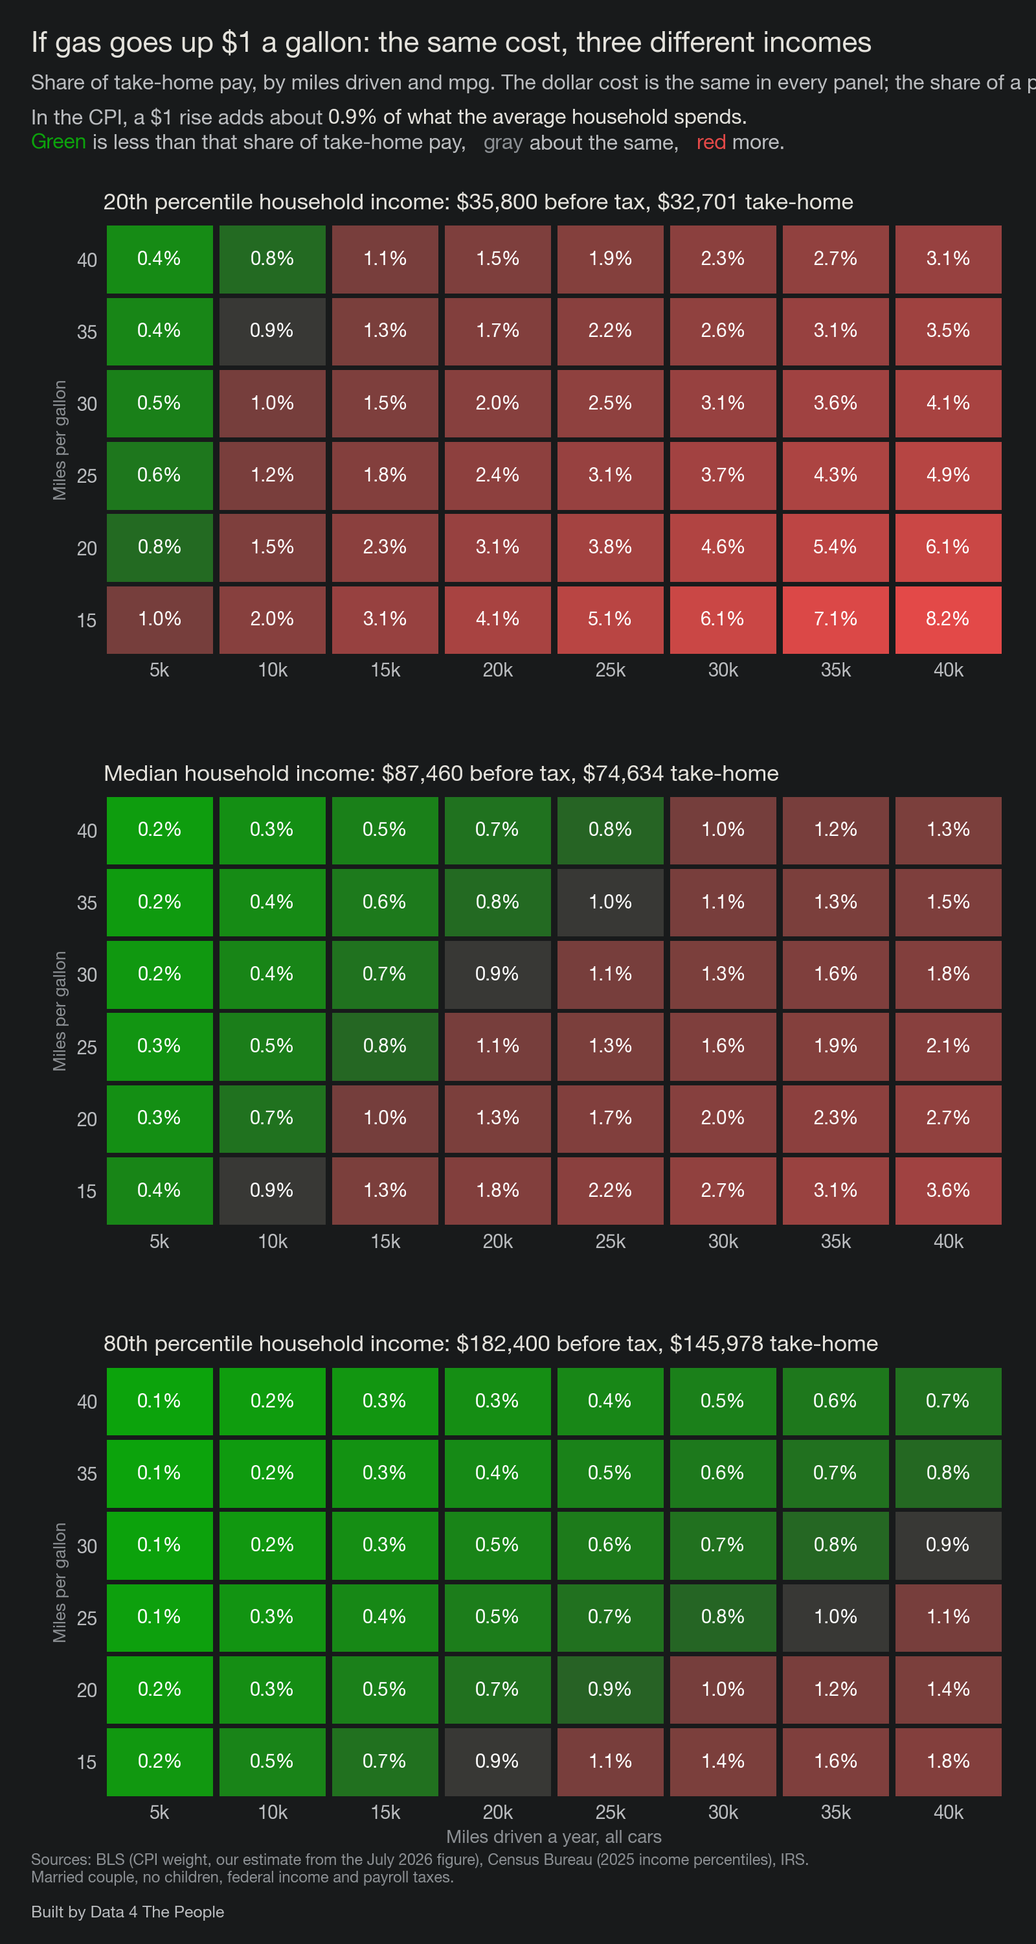
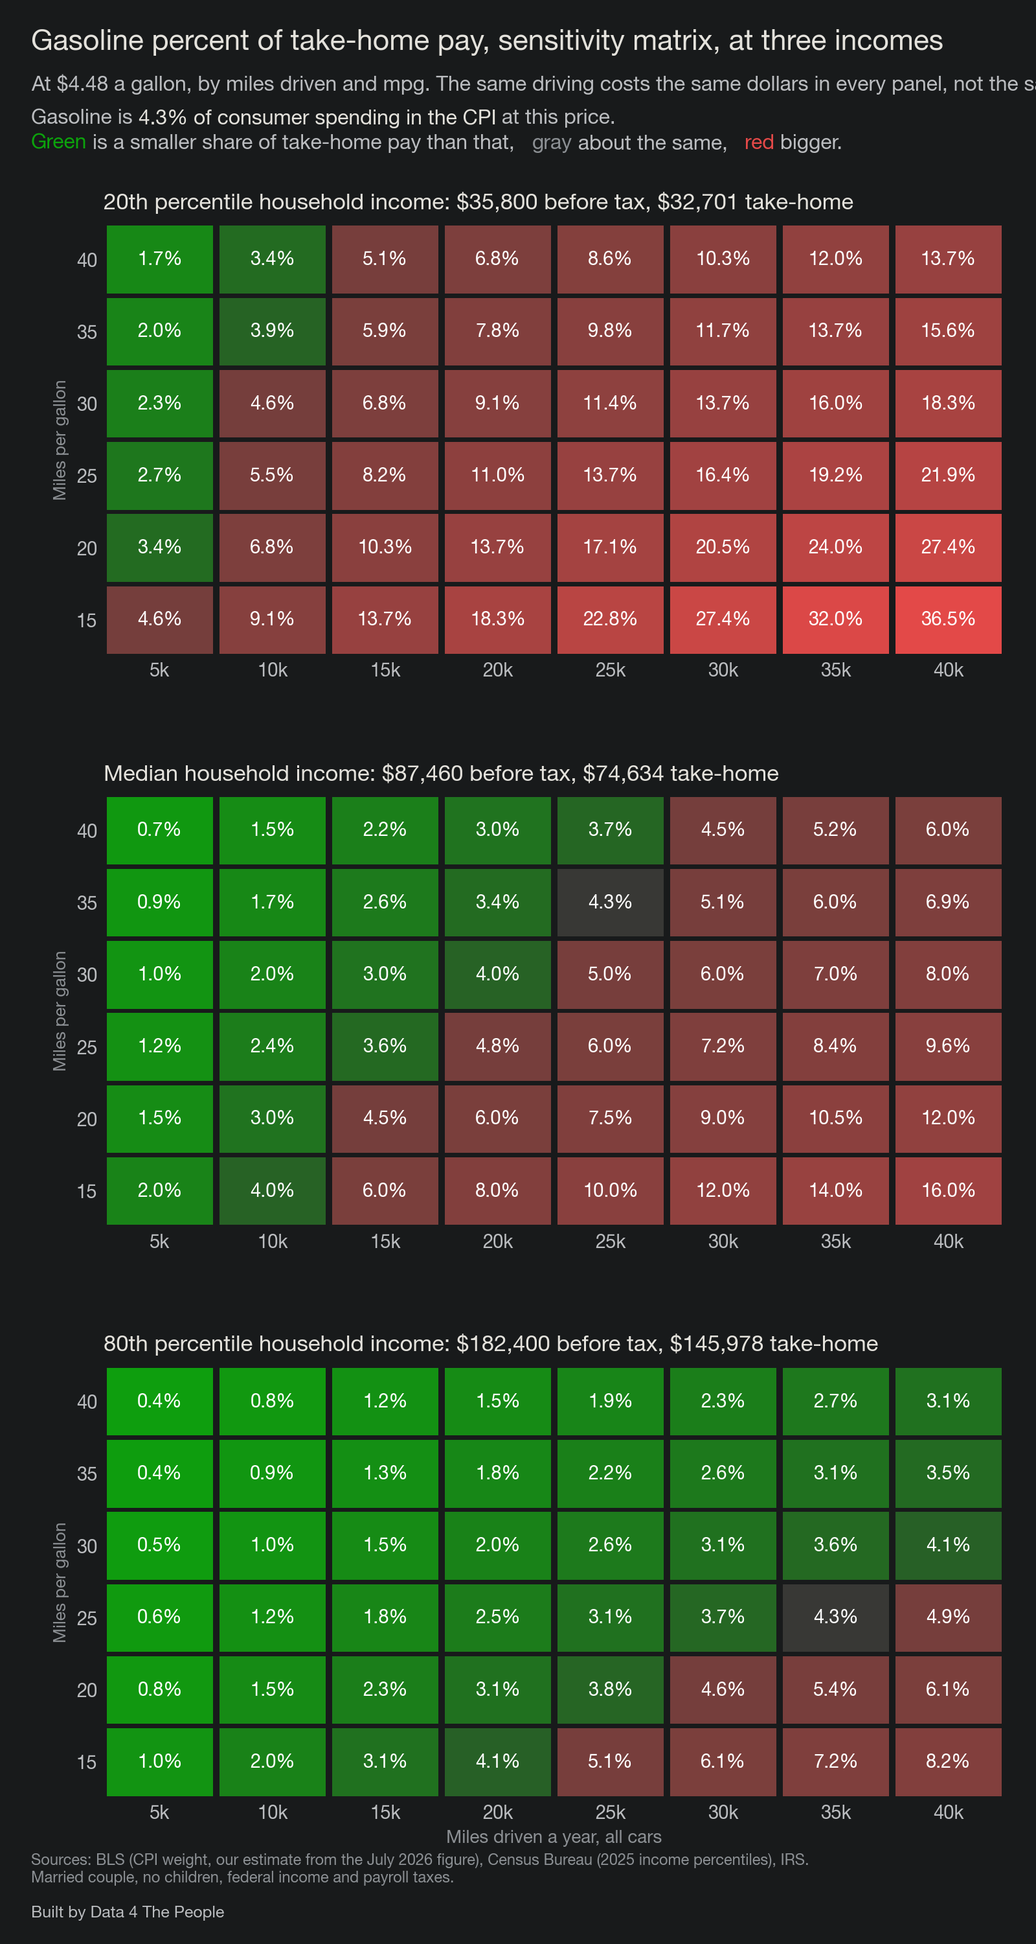
gasoline-cost: sensitivity matrix shows gasoline percent of take-home pay at the selected price

diff --git a/dist/embed.html b/dist/embed.html
@@ -401,12 +401,11 @@ function drawDetail(){
 }
 
 /* ---------- matrix: what each $1 a gallon adds, by miles and mpg, at the selected household's income ---------- */
-var MX_MILES = [5000, 10000, 15000, 20000, 25000, 30000, 35000, 40000], MX_MPG = [40, 35, 30, 25, 20, 15], MX_BAND = 0.05;
+var MX_MILES = [5000, 10000, 15000, 20000, 25000, 30000, 35000, 40000], MX_MPG = [40, 35, 30, 25, 20, 15], MX_BAND = 0.15;
 function hexRgb(h){ h = h.trim(); return [parseInt(h.substr(1, 2), 16), parseInt(h.substr(3, 2), 16), parseInt(h.substr(5, 2), 16)]; }
 function mixRgb(a, b, t){ return a.map(function(x, i){ return Math.round(x + (b[i] - x) * t); }); }
 function lumRgb(c){ var f = function(v){ v /= 255; return v <= 0.03928 ? v / 12.92 : Math.pow((v + 0.055) / 1.055, 2.4); };
   return 0.2126 * f(c[0]) + 0.7152 * f(c[1]) + 0.0722 * f(c[2]); }
-function cpiSlope(){ return (cpiAt(S.price + 0.01) - cpiAt(S.price - 0.01)) / 0.02; }
 function selected(){
   if (S.sel === "you" && S.you && S.edited) return {name: "Your household", at: S.you.t.afterTax, miles: S.you.miles, mpg: S.you.mpg};
   var p = D.profiles.filter(function(x){ return x.id === S.sel; })[0] || D.profiles[0];
@@ -414,21 +413,21 @@ function selected(){
 }
 function nearestIdx(arr, v){ var b = 0; arr.forEach(function(x, i){ if (Math.abs(x - v) < Math.abs(arr[b] - v)) b = i; }); return b; }
 function drawMatrix(){
-  var box = $("matrix"), h = selected(), cs = cpiSlope(), cst = getComputedStyle(root);
+  var box = $("matrix"), h = selected(), cs = cpiAt(S.price), cst = getComputedStyle(root);
   var NEU = hexRgb(cst.getPropertyValue("--mNeu")), GOOD = hexRgb(cst.getPropertyValue("--mGood")), BAD = hexRgb(cst.getPropertyValue("--mBad"));
-  var top = 100 * 40000 / 15 / 35000;      /* one fixed scale, so colors compare across incomes */
+  var top = 100 * (40000 / 15) * S.price / 35000;   /* one fixed scale, so colors compare across incomes */
   var mi = nearestIdx(MX_MILES, h.miles), gi = nearestIdx(MX_MPG, h.mpg);
   var whose = h.name.toLowerCase() === "your household" ? "your" : "the " + h.name.toLowerCase() + "'s";
-  var html = "<h2>If gas goes up $1 a gallon</h2>" +
-    "<p class='intro'>What a $1 rise costs, as a share of " + esc(whose) + " take-home pay of " + money(h.at) +
-    " a year, for any mix of miles and mpg. In the CPI, a $1 rise is about <b>" + cs.toFixed(1) + "% of what the average household spends</b>.</p>" +
-    "<div class='legend'><span><b style='color:var(--mGood)'>Green</b> under " + cs.toFixed(1) + "%</span><span><b style='color:var(--muted)'>Gray</b> about " + cs.toFixed(1) + "%</span><span><b style='color:var(--mBad)'>Red</b> over " + cs.toFixed(1) + "%</span><span><b>Outlined</b>: closest to this household</span></div>" +
+  var html = "<h2>Gasoline percent of take-home pay, sensitivity matrix</h2>" +
+    "<p class='intro'>At $" + S.price.toFixed(2) + " a gallon, for any mix of miles and mpg, against " + esc(whose) + " take-home pay of " + money(h.at) +
+    " a year. Gasoline is <b>" + pct(cs) + "</b> of consumer spending in the CPI at this price.</p>" +
+    "<div class='legend'><span><b style='color:var(--mGood)'>Green</b> under " + pct(cs) + "</span><span><b style='color:var(--muted)'>Gray</b> about " + pct(cs) + "</span><span><b style='color:var(--mBad)'>Red</b> over " + pct(cs) + "</span><span><b>Outlined</b>: closest to this household</span></div>" +
     "<div class='mx' role='table' aria-label='Points of after-tax income added by each $1 a gallon'><div class='h'>mpg</div>";
   MX_MILES.forEach(function(m){ html += "<div class='h'>" + (m / 1000) + "k</div>"; });
   MX_MPG.forEach(function(g, i){
     html += "<div class='h r'>" + g + "</div>";
     MX_MILES.forEach(function(m, j){
-      var v = 100 * m / g / h.at, c;
+      var v = 100 * (m / g) * S.price / h.at, c;
       if (Math.abs(v - cs) <= MX_BAND) c = NEU;
       else if (v < cs) c = mixRgb(NEU, GOOD, 0.35 + 0.65 * Math.min(1, (cs - v) / (cs - 0.1)));
       else c = mixRgb(NEU, BAD, 0.35 + 0.65 * Math.min(1, (v - cs) / (top - cs)));
@@ -436,8 +435,8 @@ function drawMatrix(){
       var word = Math.abs(v - cs) <= MX_BAND ? "about the same as" : v < cs ? "less than" : "more than";
       var gal = m / g;
       html += "<div class='c" + (i === gi && j === mi ? " me" : "") + "' style='background:rgb(" + c.join(",") + ");color:" + ink + "' data-tip='" +
-        esc(m.toLocaleString("en-US") + " miles a year at " + g + " mpg is " + Math.round(gal).toLocaleString("en-US") + " gallons. A $1 rise costs " +
-            money(gal) + " more a year, which is " + v.toFixed(1) + "% of take-home pay, " + word + " the " + cs.toFixed(1) + "% the CPI puts on the average household.") +
+        esc(m.toLocaleString("en-US") + " miles a year at " + g + " mpg is " + Math.round(gal).toLocaleString("en-US") + " gallons, or " +
+            money(gal * S.price) + " a year at $" + S.price.toFixed(2) + ". That is " + v.toFixed(1) + "% of take-home pay, " + word + " gasoline's " + pct(cs) + " share of spending in the CPI.") +
         "'>" + v.toFixed(1) + "%</div>";
     });
   });

diff --git a/dist/index.html b/dist/index.html
@@ -401,12 +401,11 @@ function drawDetail(){
 }
 
 /* ---------- matrix: what each $1 a gallon adds, by miles and mpg, at the selected household's income ---------- */
-var MX_MILES = [5000, 10000, 15000, 20000, 25000, 30000, 35000, 40000], MX_MPG = [40, 35, 30, 25, 20, 15], MX_BAND = 0.05;
+var MX_MILES = [5000, 10000, 15000, 20000, 25000, 30000, 35000, 40000], MX_MPG = [40, 35, 30, 25, 20, 15], MX_BAND = 0.15;
 function hexRgb(h){ h = h.trim(); return [parseInt(h.substr(1, 2), 16), parseInt(h.substr(3, 2), 16), parseInt(h.substr(5, 2), 16)]; }
 function mixRgb(a, b, t){ return a.map(function(x, i){ return Math.round(x + (b[i] - x) * t); }); }
 function lumRgb(c){ var f = function(v){ v /= 255; return v <= 0.03928 ? v / 12.92 : Math.pow((v + 0.055) / 1.055, 2.4); };
   return 0.2126 * f(c[0]) + 0.7152 * f(c[1]) + 0.0722 * f(c[2]); }
-function cpiSlope(){ return (cpiAt(S.price + 0.01) - cpiAt(S.price - 0.01)) / 0.02; }
 function selected(){
   if (S.sel === "you" && S.you && S.edited) return {name: "Your household", at: S.you.t.afterTax, miles: S.you.miles, mpg: S.you.mpg};
   var p = D.profiles.filter(function(x){ return x.id === S.sel; })[0] || D.profiles[0];
@@ -414,21 +413,21 @@ function selected(){
 }
 function nearestIdx(arr, v){ var b = 0; arr.forEach(function(x, i){ if (Math.abs(x - v) < Math.abs(arr[b] - v)) b = i; }); return b; }
 function drawMatrix(){
-  var box = $("matrix"), h = selected(), cs = cpiSlope(), cst = getComputedStyle(root);
+  var box = $("matrix"), h = selected(), cs = cpiAt(S.price), cst = getComputedStyle(root);
   var NEU = hexRgb(cst.getPropertyValue("--mNeu")), GOOD = hexRgb(cst.getPropertyValue("--mGood")), BAD = hexRgb(cst.getPropertyValue("--mBad"));
-  var top = 100 * 40000 / 15 / 35000;      /* one fixed scale, so colors compare across incomes */
+  var top = 100 * (40000 / 15) * S.price / 35000;   /* one fixed scale, so colors compare across incomes */
   var mi = nearestIdx(MX_MILES, h.miles), gi = nearestIdx(MX_MPG, h.mpg);
   var whose = h.name.toLowerCase() === "your household" ? "your" : "the " + h.name.toLowerCase() + "'s";
-  var html = "<h2>If gas goes up $1 a gallon</h2>" +
-    "<p class='intro'>What a $1 rise costs, as a share of " + esc(whose) + " take-home pay of " + money(h.at) +
-    " a year, for any mix of miles and mpg. In the CPI, a $1 rise is about <b>" + cs.toFixed(1) + "% of what the average household spends</b>.</p>" +
-    "<div class='legend'><span><b style='color:var(--mGood)'>Green</b> under " + cs.toFixed(1) + "%</span><span><b style='color:var(--muted)'>Gray</b> about " + cs.toFixed(1) + "%</span><span><b style='color:var(--mBad)'>Red</b> over " + cs.toFixed(1) + "%</span><span><b>Outlined</b>: closest to this household</span></div>" +
+  var html = "<h2>Gasoline percent of take-home pay, sensitivity matrix</h2>" +
+    "<p class='intro'>At $" + S.price.toFixed(2) + " a gallon, for any mix of miles and mpg, against " + esc(whose) + " take-home pay of " + money(h.at) +
+    " a year. Gasoline is <b>" + pct(cs) + "</b> of consumer spending in the CPI at this price.</p>" +
+    "<div class='legend'><span><b style='color:var(--mGood)'>Green</b> under " + pct(cs) + "</span><span><b style='color:var(--muted)'>Gray</b> about " + pct(cs) + "</span><span><b style='color:var(--mBad)'>Red</b> over " + pct(cs) + "</span><span><b>Outlined</b>: closest to this household</span></div>" +
     "<div class='mx' role='table' aria-label='Points of after-tax income added by each $1 a gallon'><div class='h'>mpg</div>";
   MX_MILES.forEach(function(m){ html += "<div class='h'>" + (m / 1000) + "k</div>"; });
   MX_MPG.forEach(function(g, i){
     html += "<div class='h r'>" + g + "</div>";
     MX_MILES.forEach(function(m, j){
-      var v = 100 * m / g / h.at, c;
+      var v = 100 * (m / g) * S.price / h.at, c;
       if (Math.abs(v - cs) <= MX_BAND) c = NEU;
       else if (v < cs) c = mixRgb(NEU, GOOD, 0.35 + 0.65 * Math.min(1, (cs - v) / (cs - 0.1)));
       else c = mixRgb(NEU, BAD, 0.35 + 0.65 * Math.min(1, (v - cs) / (top - cs)));
@@ -436,8 +435,8 @@ function drawMatrix(){
       var word = Math.abs(v - cs) <= MX_BAND ? "about the same as" : v < cs ? "less than" : "more than";
       var gal = m / g;
       html += "<div class='c" + (i === gi && j === mi ? " me" : "") + "' style='background:rgb(" + c.join(",") + ");color:" + ink + "' data-tip='" +
-        esc(m.toLocaleString("en-US") + " miles a year at " + g + " mpg is " + Math.round(gal).toLocaleString("en-US") + " gallons. A $1 rise costs " +
-            money(gal) + " more a year, which is " + v.toFixed(1) + "% of take-home pay, " + word + " the " + cs.toFixed(1) + "% the CPI puts on the average household.") +
+        esc(m.toLocaleString("en-US") + " miles a year at " + g + " mpg is " + Math.round(gal).toLocaleString("en-US") + " gallons, or " +
+            money(gal * S.price) + " a year at $" + S.price.toFixed(2) + ". That is " + v.toFixed(1) + "% of take-home pay, " + word + " gasoline's " + pct(cs) + " share of spending in the CPI.") +
         "'>" + v.toFixed(1) + "%</div>";
     });
   });

diff --git a/src/template.html b/src/template.html
@@ -401,12 +401,11 @@ function drawDetail(){
 }
 
 /* ---------- matrix: what each $1 a gallon adds, by miles and mpg, at the selected household's income ---------- */
-var MX_MILES = [5000, 10000, 15000, 20000, 25000, 30000, 35000, 40000], MX_MPG = [40, 35, 30, 25, 20, 15], MX_BAND = 0.05;
+var MX_MILES = [5000, 10000, 15000, 20000, 25000, 30000, 35000, 40000], MX_MPG = [40, 35, 30, 25, 20, 15], MX_BAND = 0.15;
 function hexRgb(h){ h = h.trim(); return [parseInt(h.substr(1, 2), 16), parseInt(h.substr(3, 2), 16), parseInt(h.substr(5, 2), 16)]; }
 function mixRgb(a, b, t){ return a.map(function(x, i){ return Math.round(x + (b[i] - x) * t); }); }
 function lumRgb(c){ var f = function(v){ v /= 255; return v <= 0.03928 ? v / 12.92 : Math.pow((v + 0.055) / 1.055, 2.4); };
   return 0.2126 * f(c[0]) + 0.7152 * f(c[1]) + 0.0722 * f(c[2]); }
-function cpiSlope(){ return (cpiAt(S.price + 0.01) - cpiAt(S.price - 0.01)) / 0.02; }
 function selected(){
   if (S.sel === "you" && S.you && S.edited) return {name: "Your household", at: S.you.t.afterTax, miles: S.you.miles, mpg: S.you.mpg};
   var p = D.profiles.filter(function(x){ return x.id === S.sel; })[0] || D.profiles[0];
@@ -414,21 +413,21 @@ function selected(){
 }
 function nearestIdx(arr, v){ var b = 0; arr.forEach(function(x, i){ if (Math.abs(x - v) < Math.abs(arr[b] - v)) b = i; }); return b; }
 function drawMatrix(){
-  var box = $("matrix"), h = selected(), cs = cpiSlope(), cst = getComputedStyle(root);
+  var box = $("matrix"), h = selected(), cs = cpiAt(S.price), cst = getComputedStyle(root);
   var NEU = hexRgb(cst.getPropertyValue("--mNeu")), GOOD = hexRgb(cst.getPropertyValue("--mGood")), BAD = hexRgb(cst.getPropertyValue("--mBad"));
-  var top = 100 * 40000 / 15 / 35000;      /* one fixed scale, so colors compare across incomes */
+  var top = 100 * (40000 / 15) * S.price / 35000;   /* one fixed scale, so colors compare across incomes */
   var mi = nearestIdx(MX_MILES, h.miles), gi = nearestIdx(MX_MPG, h.mpg);
   var whose = h.name.toLowerCase() === "your household" ? "your" : "the " + h.name.toLowerCase() + "'s";
-  var html = "<h2>If gas goes up $1 a gallon</h2>" +
-    "<p class='intro'>What a $1 rise costs, as a share of " + esc(whose) + " take-home pay of " + money(h.at) +
-    " a year, for any mix of miles and mpg. In the CPI, a $1 rise is about <b>" + cs.toFixed(1) + "% of what the average household spends</b>.</p>" +
-    "<div class='legend'><span><b style='color:var(--mGood)'>Green</b> under " + cs.toFixed(1) + "%</span><span><b style='color:var(--muted)'>Gray</b> about " + cs.toFixed(1) + "%</span><span><b style='color:var(--mBad)'>Red</b> over " + cs.toFixed(1) + "%</span><span><b>Outlined</b>: closest to this household</span></div>" +
+  var html = "<h2>Gasoline percent of take-home pay, sensitivity matrix</h2>" +
+    "<p class='intro'>At $" + S.price.toFixed(2) + " a gallon, for any mix of miles and mpg, against " + esc(whose) + " take-home pay of " + money(h.at) +
+    " a year. Gasoline is <b>" + pct(cs) + "</b> of consumer spending in the CPI at this price.</p>" +
+    "<div class='legend'><span><b style='color:var(--mGood)'>Green</b> under " + pct(cs) + "</span><span><b style='color:var(--muted)'>Gray</b> about " + pct(cs) + "</span><span><b style='color:var(--mBad)'>Red</b> over " + pct(cs) + "</span><span><b>Outlined</b>: closest to this household</span></div>" +
     "<div class='mx' role='table' aria-label='Points of after-tax income added by each $1 a gallon'><div class='h'>mpg</div>";
   MX_MILES.forEach(function(m){ html += "<div class='h'>" + (m / 1000) + "k</div>"; });
   MX_MPG.forEach(function(g, i){
     html += "<div class='h r'>" + g + "</div>";
     MX_MILES.forEach(function(m, j){
-      var v = 100 * m / g / h.at, c;
+      var v = 100 * (m / g) * S.price / h.at, c;
       if (Math.abs(v - cs) <= MX_BAND) c = NEU;
       else if (v < cs) c = mixRgb(NEU, GOOD, 0.35 + 0.65 * Math.min(1, (cs - v) / (cs - 0.1)));
       else c = mixRgb(NEU, BAD, 0.35 + 0.65 * Math.min(1, (v - cs) / (top - cs)));
@@ -436,8 +435,8 @@ function drawMatrix(){
       var word = Math.abs(v - cs) <= MX_BAND ? "about the same as" : v < cs ? "less than" : "more than";
       var gal = m / g;
       html += "<div class='c" + (i === gi && j === mi ? " me" : "") + "' style='background:rgb(" + c.join(",") + ");color:" + ink + "' data-tip='" +
-        esc(m.toLocaleString("en-US") + " miles a year at " + g + " mpg is " + Math.round(gal).toLocaleString("en-US") + " gallons. A $1 rise costs " +
-            money(gal) + " more a year, which is " + v.toFixed(1) + "% of take-home pay, " + word + " the " + cs.toFixed(1) + "% the CPI puts on the average household.") +
+        esc(m.toLocaleString("en-US") + " miles a year at " + g + " mpg is " + Math.round(gal).toLocaleString("en-US") + " gallons, or " +
+            money(gal * S.price) + " a year at $" + S.price.toFixed(2) + ". That is " + v.toFixed(1) + "% of take-home pay, " + word + " gasoline's " + pct(cs) + " share of spending in the CPI.") +
         "'>" + v.toFixed(1) + "%</div>";
     });
   });

diff --git a/src/charts.py b/src/charts.py
@@ -129,10 +129,9 @@ def lum(h):
     return 0.2126 * f(r) + 0.7152 * f(g) + 0.0722 * f(b)
 
 
-def cpi_slope(m):
-    """Points of CPI weight added per $1 a gallon, at today's price (near-constant from $2 to $7)."""
-    p, c = m['price'], m['cpi']
-    return (model.cpi_weight_at(p + 0.01, c) - model.cpi_weight_at(p - 0.01, c)) / 0.02
+def cpi_weight(m):
+    """The CPI gasoline weight at the price the charts are drawn for."""
+    return model.cpi_weight_at(m['price'], m['cpi'])
 
 
 def colored_line(f, x, y, parts, size=11.5):
@@ -146,12 +145,11 @@ def colored_line(f, x, y, parts, size=11.5):
 NEU, GREEN, RED = '#383835', '#0ca30c', '#e34948'
 MILES = list(range(5_000, 40_001, 5_000))
 MPGS = [40, 35, 30, 25, 20, 15]
-BAND = 0.05          # within this many points of the CPI slope counts as "about the same"
+BAND = 0.15          # within this many points of the CPI weight counts as "about the same"
 
 
-def cell_color(v, cs, inc):
-    lo = 100 * MILES[0] / MPGS[0] / inc
-    top = 100 * MILES[-1] / MPGS[-1] / 35_000     # fixed top of the red ramp, so panels share one scale
+def cell_color(v, cs, price):
+    top = 100 * (MILES[-1] / MPGS[-1]) * price / 35_000   # fixed top of the red ramp, so panels share one scale
     if abs(v - cs) <= BAND:
         return NEU
     if v < cs:
@@ -159,11 +157,11 @@ def cell_color(v, cs, inc):
     return mix(NEU, RED, 0.35 + 0.65 * min(1, (v - cs) / (top - cs)))
 
 
-def draw_matrix(ax, inc, cs, fs=11):
+def draw_matrix(ax, inc, cs, price, fs=11):
     for i, g in enumerate(MPGS):
         for j, mi in enumerate(MILES):
-            v = 100 * mi / g / inc
-            col = cell_color(v, cs, inc)
+            v = 100 * (mi / g) * price / inc
+            col = cell_color(v, cs, price)
             ax.add_patch(plt.Rectangle((j + 0.03, i + 0.03), 0.94, 0.94, color=col, lw=0))
             ax.text(j + 0.5, i + 0.5, f'{v:.1f}%', ha='center', va='center', fontsize=fs, fontweight='bold',
                     color='#0b0b0b' if lum(col) > 0.28 else '#ffffff')
@@ -174,24 +172,24 @@ def draw_matrix(ax, inc, cs, fs=11):
 
 
 def legend_line(f, y, cs, gap=0.028):
-    colored_line(f, 0.03, y, [('In the CPI, a $1 rise adds about ', INK2, False),
-                              (f'{cs:.1f}% of what the average household spends.', INK, True)])
-    colored_line(f, 0.03, y - gap, [('Green', GREEN, True), (' is less than that share of take-home pay,   ', INK2, False),
-                                    ('gray', '#8C9094', True), (' about the same,   ', INK2, False), ('red', RED, True), (' more.', INK2, False)])
+    colored_line(f, 0.03, y, [('Gasoline is ', INK2, False), (f'{cs:.1f}% of consumer spending in the CPI', INK, True),
+                              (' at this price.', INK2, False)])
+    colored_line(f, 0.03, y - gap, [('Green', GREEN, True), (' is a smaller share of take-home pay than that,   ', INK2, False),
+                                    ('gray', '#8C9094', True), (' about the same,   ', INK2, False), ('red', RED, True), (' bigger.', INK2, False)])
 
 
 def chart_matrix(m):
     """Each $1 a gallon adds miles/mpg/after-tax income to a household's gas share.
     Rows mpg, columns total miles, income fixed at the median household's."""
     med = m['profiles'][0]
-    inc, cs = med['after_tax'], cpi_slope(m)
+    inc, cs = med['after_tax'], cpi_weight(m)
     f, ax = fig(6.2)
-    draw_matrix(ax, inc, cs)
+    draw_matrix(ax, inc, cs, m['price'])
     ax.set_xlabel('Miles driven a year, all cars', color=MUTED, fontsize=10)
     ax.set_ylabel('Average miles per gallon', color=MUTED, fontsize=10)
     f.subplots_adjust(left=0.1, right=0.97, top=0.76, bottom=0.18)
-    title(f, 'If gas goes up $1 a gallon, what it costs a household',
-          f'Share of take-home pay, by miles driven and mpg, at the median household\'s \\${inc:,.0f} a year')
+    title(f, 'Gasoline percent of take-home pay, sensitivity matrix',
+          f'At \\${m["price"]:.2f} a gallon, by miles driven and mpg, at the median household\'s take-home pay of \\${inc:,.0f}')
     legend_line(f, 0.855, cs)
     foot(f, 'Sources: BLS (CPI weight, our estimate from the July 2026 figure), Census Bureau, IRS. Married couple, no children.')
     f.savefig(OUT / '04-slope-matrix.png', facecolor=BG); plt.close(f)
@@ -200,7 +198,7 @@ def chart_matrix(m):
 def chart_matrix_income(m):
     """The same matrix at three incomes: Census 20th percentile, median, 80th percentile (pretax)."""
     from tax import after_tax
-    cs = cpi_slope(m)
+    cs = cpi_weight(m)
     pct = dict(model.INC_PCTL)
     rows = [('20th percentile', pct[20]), ('Median', pct[50]), ('80th percentile', pct[80])]
     f, axes = plt.subplots(3, 1, figsize=(8, 15), dpi=200)
@@ -211,14 +209,14 @@ def chart_matrix_income(m):
             sp.set_visible(False)
         ax.tick_params(length=0)
         inc = after_tax('mfj', pre)['after_tax']
-        draw_matrix(ax, inc, cs, fs=10.5)
+        draw_matrix(ax, inc, cs, m['price'], fs=10.5)
         ax.set_title(f'{lab} household income: \\${pre:,} before tax, \\${inc:,.0f} take-home', loc='left', color=INK, fontsize=12.5,
                      fontweight='bold', pad=8)
         ax.set_ylabel('Miles per gallon', color=MUTED, fontsize=9.5)
     axes[-1].set_xlabel('Miles driven a year, all cars', color=MUTED, fontsize=10)
     f.subplots_adjust(left=0.1, right=0.97, top=0.885, bottom=0.075, hspace=0.32)
-    f.text(0.03, 0.985, 'If gas goes up $1 a gallon: the same cost, three different incomes', fontsize=16, fontweight='bold', color=INK, va='top')
-    f.text(0.03, 0.962, 'Share of take-home pay, by miles driven and mpg. The dollar cost is the same in every panel; the share of a paycheck is not.', fontsize=11.5, color=INK2, va='top')
+    f.text(0.03, 0.985, 'Gasoline percent of take-home pay, sensitivity matrix, at three incomes', fontsize=16, fontweight='bold', color=INK, va='top')
+    f.text(0.03, 0.962, f'At \\${m["price"]:.2f} a gallon, by miles driven and mpg. The same driving costs the same dollars in every panel, not the same share.', fontsize=11.5, color=INK2, va='top')
     legend_line(f, 0.944, cs, gap=0.013)
     f.text(0.03, 0.03, 'Sources: BLS (CPI weight, our estimate from the July 2026 figure), Census Bureau (2025 income percentiles), IRS.\nMarried couple, no children, federal income and payroll taxes.', fontsize=8.5, color=MUTED, va='bottom')
     f.text(0.03, 0.012, CREDIT, fontsize=9, color=INK2, va='bottom', fontweight='bold')
